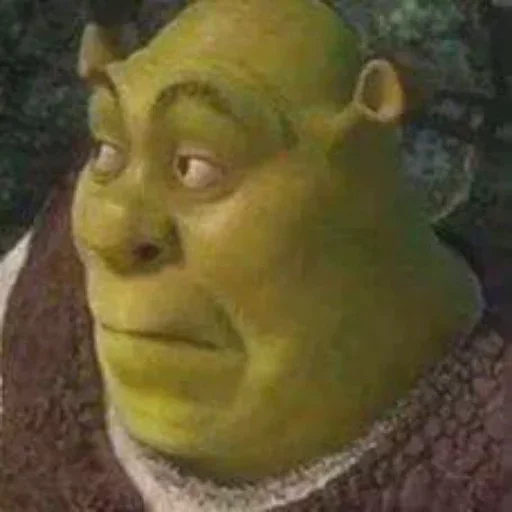
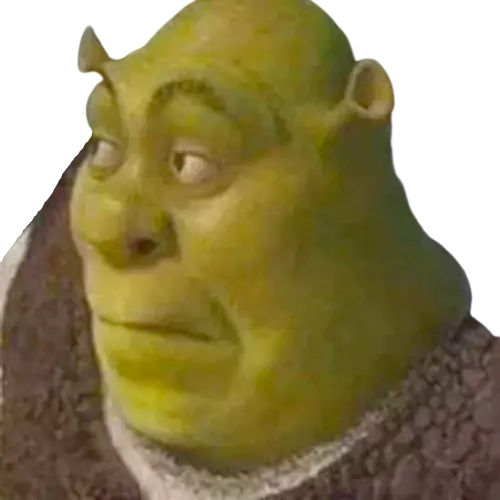
About me section changed

diff --git a/src/lib/localization.js b/src/lib/localization.js
@@ -49,35 +49,28 @@ export default {
         'price': 'Договорная цена'
       }
     },
-    'ABOUT_ME': dedent`
-      <h2>Привет, меня зовут Виктор и я являюсь специалистом в области разработки веб-приложений.</h2>
-
-      <p>
-        Я профессионально занимаюсь разработкой приложений PWA и инструментов для крупных клиентов более двух лет,
+    'ABOUT_ME': {
+      HEADING: 'Привет, меня зовут Виктор, и я являюсь специалистом в области разработки веб-приложений',
+      INTRO: dedent`Я профессионально занимаюсь разработкой приложений PWA и инструментов для крупных клиентов более двух лет,
         а общий опыт разработки сайтов у меня более 5 лет. Мой основной стек для фронтенда: <b>React, Next.js, React Native, Preact и Vite</b>.
         В мои обязанности входит мобильный, кросс-браузерный и семантический адаптив, чтобы сайт смотрелся одинаково хорошо
-        на всех устройствах и во всех браузерах.
-      </p>
-
-      <p>
-        Помимо фронтенда я занимаюсь и бекендом, для своих клиентов создаю сайты «под ключ», настраивая сервер, почту и создавая сам сайт с нуля по желанию заказчика,
-        помогая реализовать сайт с учетом конкретных технических требований и по макету Figma/Photoshop/Illustrator, или работая в команде с другими разработчиками.
-        В своих проектах я чаще всего использую веб-серверы <b>Express и Fastify с Nginx</b> (ранее 3 года работал с Apache), базы данных
-        <b>MongoDB, Redis и LevelDB</b>, подбирая подходящую базу данных с учетом размера проекта (ранее работал с MySQL и PostgreSQL)
-      </p>
-
-      <p>
-        Более четырех лет я разрабатываю <b>ботов для ВКонтакте, Телеграма, Дискорда, Реддита, Яндекс.Алисы</b>, расширения для
+        на всех устройствах и во всех браузерах.`,
+      INTRO_IMAGE: 'Стикер белой собаки Спотти ВКонакте с жестом Лайк',
+      BACKEND: dedent`Помимо фронтенда я занимаюсь и бекендом, для своих клиентов создаю сайты «под ключ», настраивая сервер, почту и создавая сам сайт с нуля по желанию заказчика,
+        помогая реализовать сайт с учетом конкретных технических требований и по макету Figma/Photoshop/Illustrator, или работая в команде с другими разработчиками.`,
+      MY_PROJECTS: dedent`В своих проектах я чаще всего использую веб-серверы <b>Express и Fastify с Nginx</b> (ранее 3 года работал с Apache), базы данных
+        <b>MongoDB, Redis и LevelDB</b>, подбирая подходящую базу данных с учетом размера проекта (ранее работал с MySQL и PostgreSQL)`,
+      MY_PROJECTS_IMAGE: 'Колобанга с жестом Коза',
+      BOTS: dedent`Более четырех лет я разрабатываю <b>ботов для ВКонтакте, Телеграма, Дискорда, Реддита, Яндекс.Алисы</b>, расширения для
         браузеров, плагины для Figma, инструменты для разработчиков, такие как библиотеки и другие полезные инструменты.
         Сейчас я учу Kubernetes, знаю <b>Docker</b> и по вашему желанию создать образ/контейнер вместо архива с проектом, для
-        быстрого масштабирования и развертки между серверами.
-        Также в последнее время я начал увлекаться врапперами API, скрин-скрейпингом и парсингом данных: я создал уже несколько
+        быстрого масштабирования и развертки между серверами.`,
+      PARSING: dedent`Также в последнее время я начал увлекаться врапперами API, скрин-скрейпингом и парсингом данных: я создал уже несколько
         библиотек JS для работы с закрытым API некоторых сайтов, причем они включают в себя как работу с голым HTML, так и
-        работу напрямую с SignalR.
-      </p>
-
-      <h3>Опыт работы</h3>
-      <ul>
+        работу напрямую с SignalR.`,
+      PARSING_IMAGE: 'Шрек смотрит налево (направо относительно него)',
+      WORK_EXPERIENCE_LABEL: 'Опыт работы',
+      WORK_EXPERIENCE_BLOCK: dedent`<ul>
         <li>Разработал несколько сайтов для российского блоггера-стримера, сайты (Президент Абоба, Гадзы Глада Валакаса) сейчас имеют сотни уникальных посетителей в месяц</li>
         <li>Разработал плагин Figma для быстрой верстки кросс-платформерных макетов для Joom</li>
         <li>Работал в команде над онлайн-школой английского языка на Electron.js</li>
@@ -86,15 +79,16 @@ export default {
             охват в десятки тысяч пользователей, затем мы продолжили работать и совместно создали сервер для игры
             Minecraft с сайтом с оплатой для него</li>
         <li>Работал в команде Национального Центра Исследований в Казахстане, работающая над CRM для сотрудников центра</li>
-      </ul>
-
-      <p>
-        Более подробную информацию о моих навыках вы можете найти в портфолио и в моем <a href='https://github.com/VityaSchel'>аккаунте GitHub</a>, который я веду
+      </ul>`,
+      ENDING: dedent`Более подробную информацию о моих навыках вы можете найти в портфолио и в \
+        моем <a href='https://github.com/VityaSchel'>аккаунте GitHub</a>, который я веду
         с 2019 года, создаю полезные библиотеки и стремлюсь улучшать DX.
-        Если у вас еще остались вопросы или вы готовы обсудить проект со мной — пишите мне в Телеграм: <a href='tg://resolve?domain=hlothdev'>@hlothdev</a>
-        или в другие соц. сети, перечисленные на этой странице.
-      </p>`,
-    'PORTFOLIO': {
+        Если у вас еще остались вопросы или вы готовы обсудить проект со мной — пишите мне в \
+        Телеграм: <a href='tg://resolve?domain=hlothdev'>@hlothdev</a> \
+        или в другие соц. сети, перечисленные на этой странице.`,
+      ENDING_IMAGE: 'UWU эмодзи'
+    },
+    PORTFOLIO: {
       COLUMNS: {
         NAME: 'Название',
         DESCRIPTION: 'Описание',
@@ -200,41 +194,50 @@ export default {
       }
     },
     ABOUT_ME: {
-      HEADING: 'Hi, my name is Viktor, and I\'m a web-application developer from Russia.',
+      HEADING: 'Hi, my name is Viktor, and I\'m a web-application developer from Russia',
       INTRO: dedent`I have been professionally developing PWA apps and tools for major clients for over two years, and I have over
         five years of overall website development experience. My main frontend stack is <b>React, Next.js, React Native,
         Preact, and Vite</b>. My responsibilities include mobile, cross-browser, and semantic responsive development so that
         the site looks equally good on all devices and in all browsers.`,
-      INTRO_IMAGE: 'Image to the right side of text: white dog sticker from VKontakte social network',
+      INTRO_IMAGE: 'White dog sticker from VKontakte social network',
       BACKEND: dedent`In addition to the frontend, I also work with backend. For my clients I create turnkey websites, set up the
         hosting, mail server, and develop the site itself from scratch at the request of the customer, helping to
         implement the site taking into account specific technical requirements and according to the
-        Figma/Photoshop/Illustrator layout, or working in a team with other developers. In my projects, I mostly use
+        Figma/Photoshop/Illustrator layout.`,
+      MY_PROJECTS: dedent`In my projects, I mostly use
         <b>Express and Fastify</b> web servers with Nginx reverse proxy or CGI (recently moved from Apache with which I was
         working for three years), <b>MongoDB, Redis and LevelDB</b> databases, choosing the appropriate database looking at
         the size of the project (previously I worked with MySQL and PostgreSQL)`,
+      MY_PROJECTS_IMAGE: 'Yellow Kolobok with sign of the horns gesture',
       BOTS: dedent`For more than four years I have been developing <b>bots for VKontakte, Telegram, Discord, Reddit, Yandex.Alice</b>,
         browser extensions, plugins for Figma, developer tools such as libraries, and other useful instruments. Now I am
         learning Kubernetes, already have significant experience of working with <b>Docker</b>, and, at your request, I could
-        create a container instead of a ZIP archive with a project, for quick scaling and deployment between your servers.
-        Also lately I've started getting into API wrappers, screen-scraping and data parsing: I've already created several
+        create a container instead of a ZIP archive with a project, for quick scaling and deployment between your servers.`,
+      PARSING: dedent`Also lately I've started getting into API wrappers, screen-scraping and data parsing: I've already created several
         JS libraries to work with the closed API of some websites, and they include working with bare HTML, working with
         SignalR directly and other things.`,
+      PARSING_IMAGE: 'Shrek looking at the left (right relative to him)',
       WORK_EXPERIENCE_LABEL: 'Work Experience',
       WORK_EXPERIENCE_BLOCK: dedent`<ul>
-        <li>I have developed several websites for the Russian blogger and streamer (President Aboba, Gadzas of Glad Valakas), which now have hundreds of unique visitors per month</li>
+        <li>I have developed several websites for the Russian blogger and streamer (President Aboba, Gadzas of 
+            Glad Valakas), which now have hundreds of unique visitors per month</li>
         <li>I have developed Figma plugin for a fast cross-platform layout design for Joom</li>
         <li>I worked in a team on an online English school with the Electron.js app</li>
         <li>I have developed several projects on Tauri, to create native cross-platforming app</li>
         <li>I have developed a bot with an admin control panel, installed on a customer's server for the AtmosSeries
-            channel in Telegram, which has a reach of tens of thousands of users. Then we continued to work and created
-            a server for the Minecraft video game and a website with payments processing</li>
-        <li>I worked in the team of the National Research Center in Kazakhstan, we were working on CRM for the center's employees, and my job was to create a custom React component</li>
+            channel in Telegram, which has a reach of tens of thousands of users. It allows you to distribute ads in 
+            private chat with bot and counts referral registrations</li>
+        <li>Then we continued to work and created a Minecraft server with private survival world and a website with 
+            payments processing</li>
+        <li>I worked in the team of the National Research Center in Kazakhstan, we were working on CRM for the 
+            center's employees, and my job was to create a custom React component</li>
       </ul>`,
-      ENDING: dedent`You can find more information on my skills in my portfolio and on my <a href='https://github.com/VityaSchel'>GitHub account</a>, which I have been running
-        since 2019, creating libraries used by other web developers and striving to improve DX. If you have any
+      ENDING: dedent`You can find more information on my skills in my portfolio and on 
+        my <a href='https://github.com/VityaSchel'>GitHub account</a>, which I've created
+        in 2019, creating libraries used by other web developers and striving to improve DX. If you have any
         questions or want to discuss your case with me — contact me in
-        Telegram: <a href='tg://resolve?domain=hlothdev'>@hlothdev</a> or other ways listed on this page.`
+        Telegram: <a href='tg://resolve?domain=hlothdev'>@hlothdev</a> or other ways listed on this page.`,
+      ENDING_IMAGE: 'UWU emoji'
     },
     'PORTFOLIO': {
       COLUMNS: {

diff --git a/src/components/CardsContent/me/index.js b/src/components/CardsContent/me/index.js
@@ -56,22 +56,33 @@ function Me(props) {
         <Card className={styles.about}>
           <div className={styles.text}>
             <h2 dangerouslySetInnerHTML={{ __html: translation.HEADING }} />
-            <div>
+            <div className={styles.imgBlock}>
+              <img src='/static/site-decorations/vk-dog.webp' alt={translation.INTRO_IMAGE} align='right' width={130} />
               <p dangerouslySetInnerHTML={{ __html: translation.INTRO }} />
-              <img src='/static/site-decorations/vk-dog.webp' alt={translation.INTRO_IMAGE} />
             </div>
             <p dangerouslySetInnerHTML={{ __html: translation.BACKEND }} />
+            <div className={styles.imgBlock}>
+              <video src="/static/site-decorations/kolobanga.webm" align='left' autoPlay width={150} muted loop alt={translation.MY_PROJECTS_IMAGE} />
+              <p dangerouslySetInnerHTML={{ __html: translation.MY_PROJECTS }} />
+            </div>
             <p dangerouslySetInnerHTML={{ __html: translation.BOTS }} />
+            <div className={styles.imgBlock}>
+              <img src='/static/site-decorations/shrek.webp' alt={translation.PARSING_IMAGE} align='right' width={130} />
+              <p dangerouslySetInnerHTML={{ __html: translation.PARSING }} />
+            </div>
             <h2 dangerouslySetInnerHTML={{ __html: translation.WORK_EXPERIENCE_LABEL }} />
             <p dangerouslySetInnerHTML={{ __html: translation.WORK_EXPERIENCE_BLOCK }} />
-            <p dangerouslySetInnerHTML={{ __html: translation.ENDING }} />
+            <div className={styles.imgBlock}>
+              <img src='/static/site-decorations/qwq.webp' alt={translation.ENDING_IMAGE} align='left' width={140} />
+              <p dangerouslySetInnerHTML={{ __html: translation.ENDING }} />
+            </div>
           </div>
         </Card>
       </div>
       <div className={styles.rightCol}>
         <div className={styles.topRow}>
           <Card
-            avatar={<img src={avatar} width={100} style={{ borderRadius: 999 }} />}
+            avatar={<img src={avatar} width={100} height={100} style={{ borderRadius: 999 }} />}
             avatarStyles={{ padding: 0, boxShadow: '0 0 2px 0 rgba(0, 0, 0.25)' }}
             title={`${props.translation.CARD_ME_FIRST_NAME} ${props.translation.CARD_ME_LAST_NAME}`}
             subtitle={props.translation.FULL_SPECIALIZATION}

diff --git a/src/components/CardsContent/me/styles.module.scss b/src/components/CardsContent/me/styles.module.scss
@@ -5,6 +5,16 @@
   align-self: center;
 
   .info {
+    .imgBlock {
+
+      video {
+        float: left;
+      }
+
+      img, video {
+        margin: 0 10px;
+      }
+    }
 
     .about {
       width: 100%;
